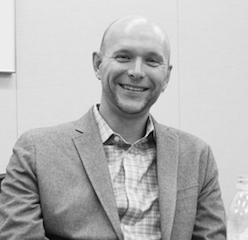
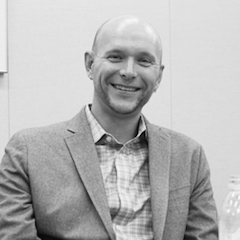
update img sizes

diff --git a/_includes/banner.html b/_includes/banner.html
@@ -22,7 +22,7 @@
         <div class="panel panel-box">
           <div class="panel-teaser">
             <a class="smooth" href="#engineering">
-              <img src="public/img/marcjones2.jpg" width="291" height="300">
+              <img src="public/img/marcjones2.jpg" width="300" height="300">
               <div class="panel-title">
                 Engineering
               </div>
@@ -36,7 +36,7 @@
         <div class="panel panel-box">
           <div class="panel-teaser">
             <a class="smooth" href="#open-source">
-              <img src="public/img/marcjones3.jpg" width="292" height="300">
+              <img src="public/img/marcjones3.jpg" width="300" height="300">
               <div class="panel-title">
                 Open Source
               </div>
